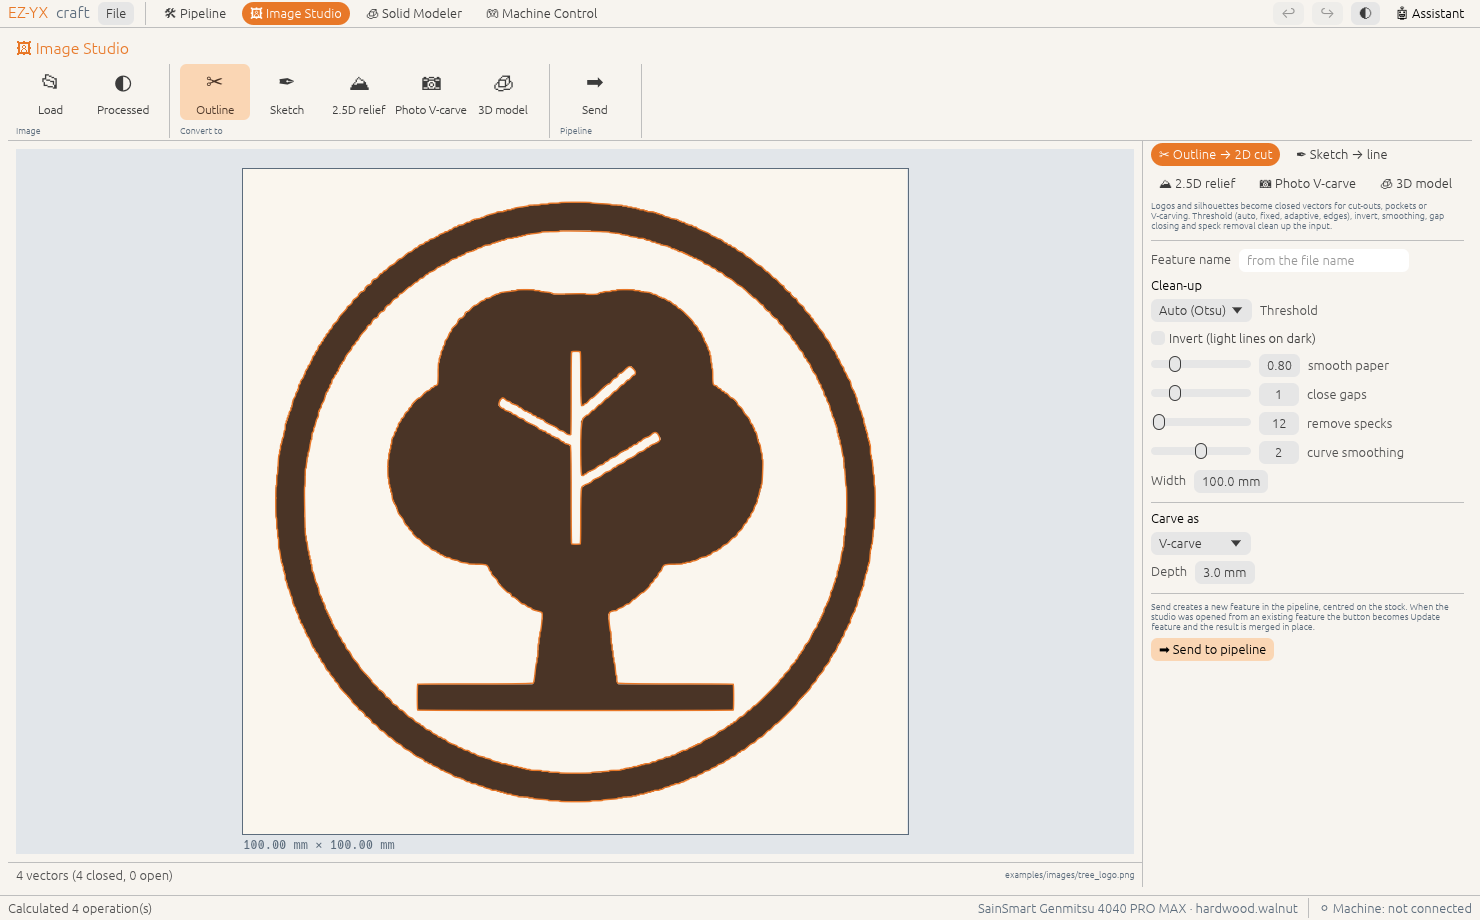
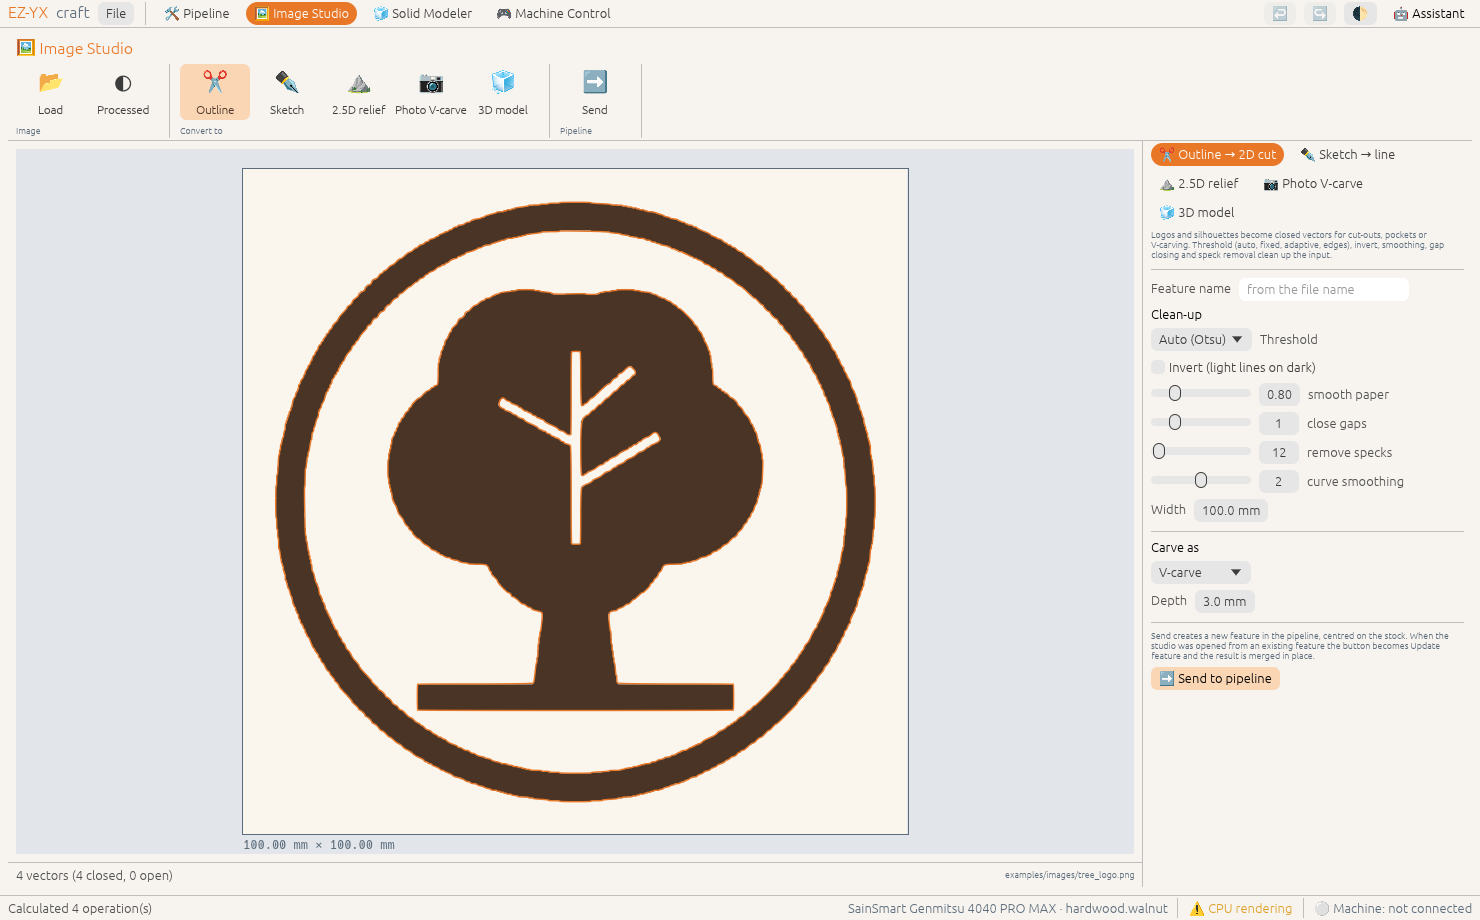
docs: update user manual

diff --git a/docs/manual/src/changelog.md b/docs/manual/src/changelog.md
@@ -7,12 +7,14 @@ What changed in EZ-YX-craft between revisions of this manual. This page is gener
 
 ### New features
 
+- **mobile:** iPad and Android apps with CI build and release path (`d26fc1e`)
 - **app:** pipeline main window + Image Studio, Solid Modeler, Machine Control windows (`5e4a597`)
 - **pipeline:** feature timeline, automatic rough+finish planning, conflicts and re-import merge (`959e6d4`)
 - **cad:** SolidWorks-style kernel — constrained sketches, parameters, sweep/loft/holes/threads (`dc1ff85`)
 
 ### Fixes
 
+- **ios:** keep ANSI colour codes out of the Rust linker flags (`4eb181f`)
 - **gpu:** keep viewport buffers under the device limit, CPU-rendering fallback (`9e10e43`)
 
 ### Documentation
